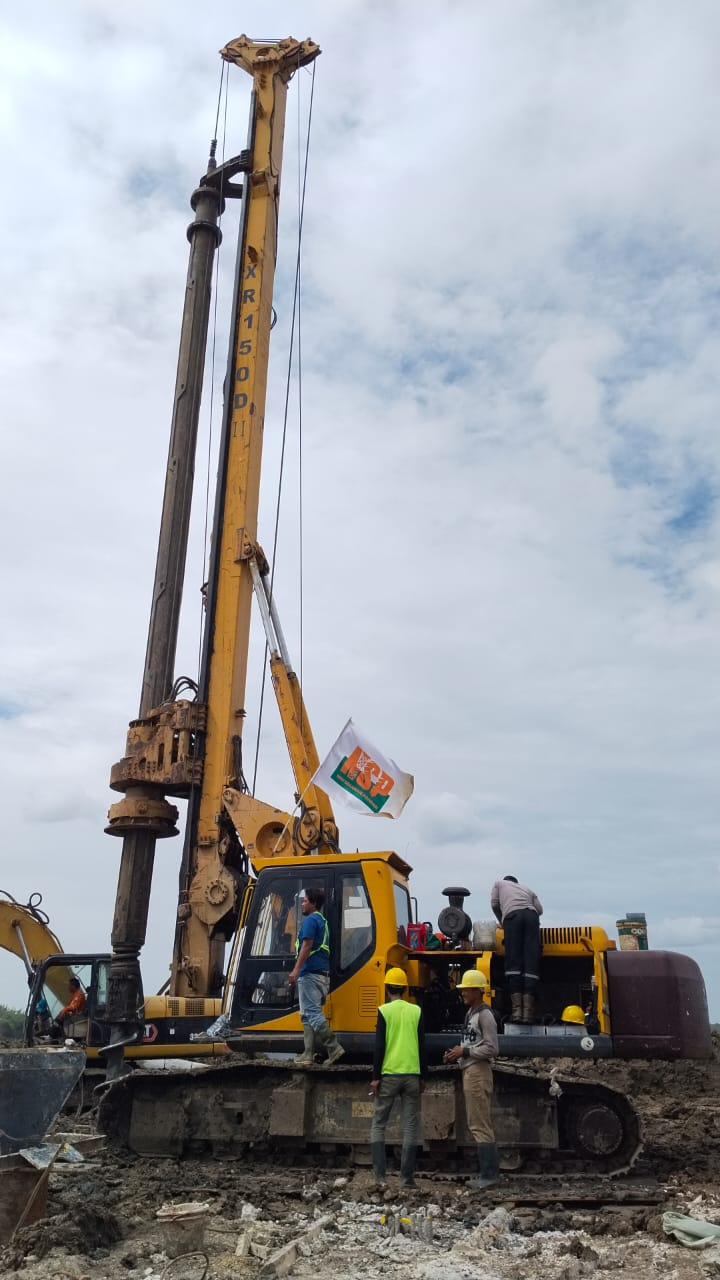
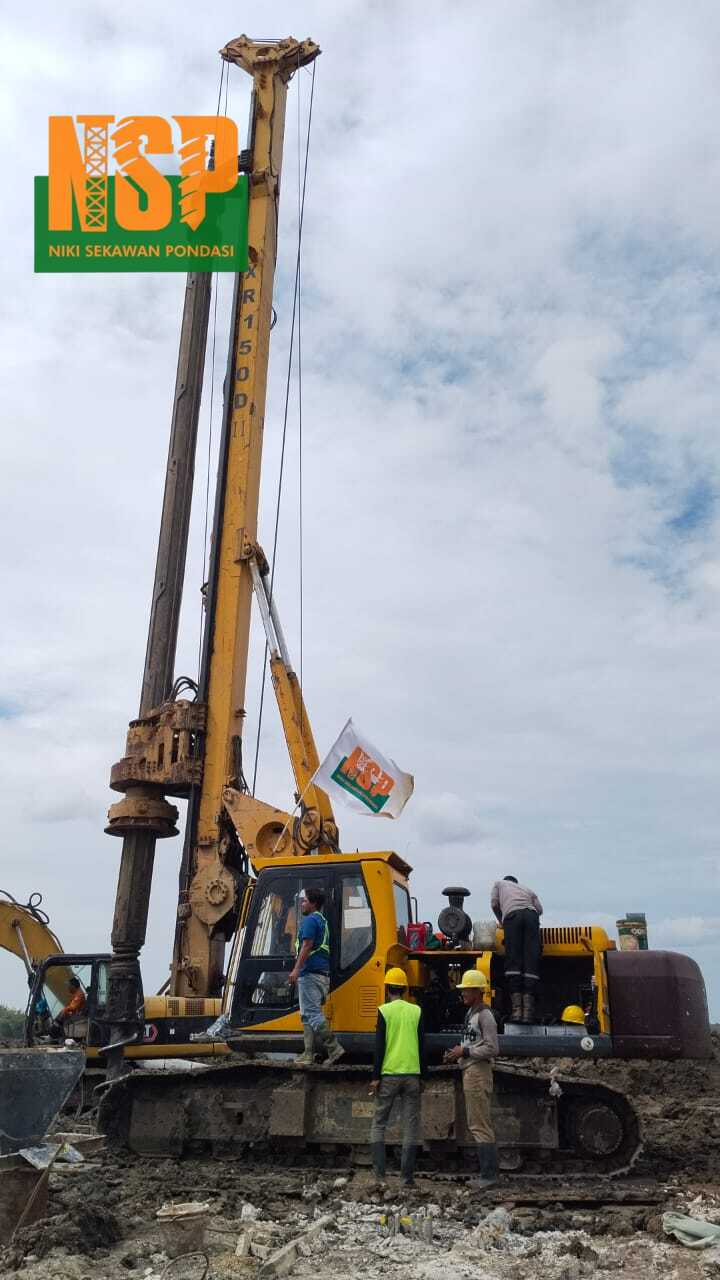
Add files via upload

Changed region(s): [[0.0306, 0.0625, 0.3667, 0.2188], [0.4889, 0.5938, 0.5194, 0.625]]

diff --git a/borepilecrane.html b/borepilecrane.html
@@ -313,7 +313,7 @@
                     >
 
                         <source
-                            src="video-mini-crane.mp4"
+                            src="BORE-PILE-MINI-CRANE.VIDEO.mp4"
                             type="video/mp4"
                         >
 
@@ -371,12 +371,12 @@
                         class="thumbnail"
                         type="button"
                         data-type="image"
-                        data-src="BORE PILE MINI CRANE 2.jpeg"
-                        aria-label="Foto Bore Pile Mini Crane 2"
+                        data-src="BORE-PILE-MINI-CRANE.01.jpg"
+                        aria-label="Foto Bore Pile Mini Crane 1"
                     >
 
                         <img
-                            src="BORE PILE MINI CRANE 2.jpeg"
+                            src="BORE-PILE-MINI-CRANE.01.jpg"
                             alt="Pekerjaan Bore Pile Mini Crane"
                         >
 
@@ -390,12 +390,44 @@
                         class="thumbnail"
                         type="button"
                         data-type="image"
-                        data-src="BORE PILE MINI CRANE 3.jpeg"
+                        data-src="BORE-PILE-MINI-CRANE.02.jpg"
+                        aria-label="Foto Bore Pile Mini Crane 2"
+                    >
+
+                        <img
+                            src="BORE-PILE-MINI-CRANE.02.jpg"
+                            alt="Proses Bore Pile Mini Crane Wash Boring"
+                        >
+
+                    </button>
+                    <!-- FOTO 4 -->
+
+                    <button
+                        class="thumbnail"
+                        type="button"
+                        data-type="image"
+                        data-src="BORE-PILE-MINI-CRANE.03.jpg"
                         aria-label="Foto Bore Pile Mini Crane 3"
                     >
 
                         <img
-                            src="BORE PILE MINI CRANE 3.jpeg"
+                            src="BORE-PILE-MINI-CRANE.03.jpg"
+                            alt="Proses Bore Pile Mini Crane Wash Boring"
+                        >
+
+                    </button>
+                    <!-- FOTO 5 -->
+
+                    <button
+                        class="thumbnail"
+                        type="button"
+                        data-type="image"
+                        data-src="BORE-PILE-MINI-CRANE.04.jpg"
+                        aria-label="Foto Bore Pile Mini Crane 4"
+                    >
+
+                        <img
+                            src="BORE-PILE-MINI-CRANE.04.jpg"
                             alt="Proses Bore Pile Mini Crane Wash Boring"
                         >
 
@@ -409,7 +441,7 @@
                         class="thumbnail video-thumbnail"
                         type="button"
                         data-type="video"
-                        data-src="video-mini-crane.mp4"
+                        data-src="BORE-PILE-MINI-CRANE.VIDEO.mp4"
                         aria-label="Video pekerjaan Bore Pile Mini Crane"
                     >
 
@@ -419,7 +451,28 @@
                         >
 
                             <source
-                                src="video-mini-crane.mp4"
+                                src="BORE-PILE-MINI-CRANE.VIDEO.mp4"
+                                type="video/mp4"
+                            >
+
+                        </video>
+                        <!-- VIDEO -->
+
+                    <button
+                        class="thumbnail video-thumbnail"
+                        type="button"
+                        data-type="video"
+                        data-src="BORE-PILE-MINI-CRANE.VIDEO01.mp4"
+                        aria-label="Video pekerjaan Bore Pile Mini Crane"
+                    >
+
+                        <video
+                            muted
+                            playsinline
+                        >
+
+                            <source
+                                src="BORE-PILE-MINI-CRANE.VIDEO01.mp4"
                                 type="video/mp4"
                             >
 

diff --git a/borepile.html b/borepile.html
@@ -411,7 +411,7 @@
                     >
 
                         <source
-                            src="video-bore-pile-hydraulic.mp4"
+                            src="BORE-PILE-HYDRAULIC.VIDEO.mp4"
                             type="video/mp4"
                         >
 
@@ -468,13 +468,13 @@
                         class="thumbnail"
                         type="button"
                         data-type="image"
-                        data-src="bore-pile-hydraulic-2.jpg"
+                        data-src="BORE-PILE-HYDRAULIC.01.jpeg"
                         data-alt="Proses pekerjaan Bore Pile Hydraulic Machine"
                         aria-label="Foto proses Bore Pile Hydraulic"
                     >
 
                         <img
-                            src="bore-pile-hydraulic-2.jpg"
+                            src="BORE-PILE-HYDRAULIC.01.jpeg"
                             alt="Proses pekerjaan Bore Pile Hydraulic"
                         >
 
@@ -487,13 +487,48 @@
                         class="thumbnail"
                         type="button"
                         data-type="image"
-                        data-src="bore-pile-hydraulic-3.jpg"
+                        data-src="BORE-PILE-HYDRAULIC.02.jpg"
                         data-alt="Pekerjaan pondasi Bore Pile Hydraulic"
                         aria-label="Foto pondasi Bore Pile Hydraulic"
                     >
 
                         <img
-                            src="bore-pile-hydraulic-3.jpg"
+                            src="BORE-PILE-HYDRAULIC.02.jpg"
+                            alt="Pekerjaan pondasi Bore Pile Hydraulic"
+                        >
+
+                    </button>
+
+                    <!-- FOTO 4 -->
+
+                    <button
+                        class="thumbnail"
+                        type="button"
+                        data-type="image"
+                        data-src="BORE-PILE-HYDRAULIC.03.jpg"
+                        data-alt="Pekerjaan pondasi Bore Pile Hydraulic"
+                        aria-label="Foto pondasi Bore Pile Hydraulic"
+                    >
+
+                        <img
+                            src="BORE-PILE-HYDRAULIC.03.jpg"
+                            alt="Pekerjaan pondasi Bore Pile Hydraulic"
+                        >
+
+                    </button>
+                    <!-- FOTO 6 -->
+
+                    <button
+                        class="thumbnail"
+                        type="button"
+                        data-type="image"
+                        data-src="BORE-PILE-HYDRAULIC.05.jpg"
+                        data-alt="Pekerjaan pondasi Bore Pile Hydraulic"
+                        aria-label="Foto pondasi Bore Pile Hydraulic"
+                    >
+
+                        <img
+                            src="BORE-PILE-HYDRAULIC.05.jpg"
                             alt="Pekerjaan pondasi Bore Pile Hydraulic"
                         >
 
@@ -506,7 +541,7 @@
                         class="thumbnail video-thumbnail"
                         type="button"
                         data-type="video"
-                        data-src="video-bore-pile-hydraulic.mp4"
+                        data-src="BORE-PILE-HYDRAULIC.VIDEO.mp4"
                         aria-label="Video pekerjaan Bore Pile Hydraulic"
                     >
 
@@ -516,7 +551,7 @@
                         >
 
                             <source
-                                src="video-bore-pile-hydraulic.mp4"
+                                src="BORE-PILE-HYDRAULIC.VIDEO.mp4"
                                 type="video/mp4"
                             >
 
